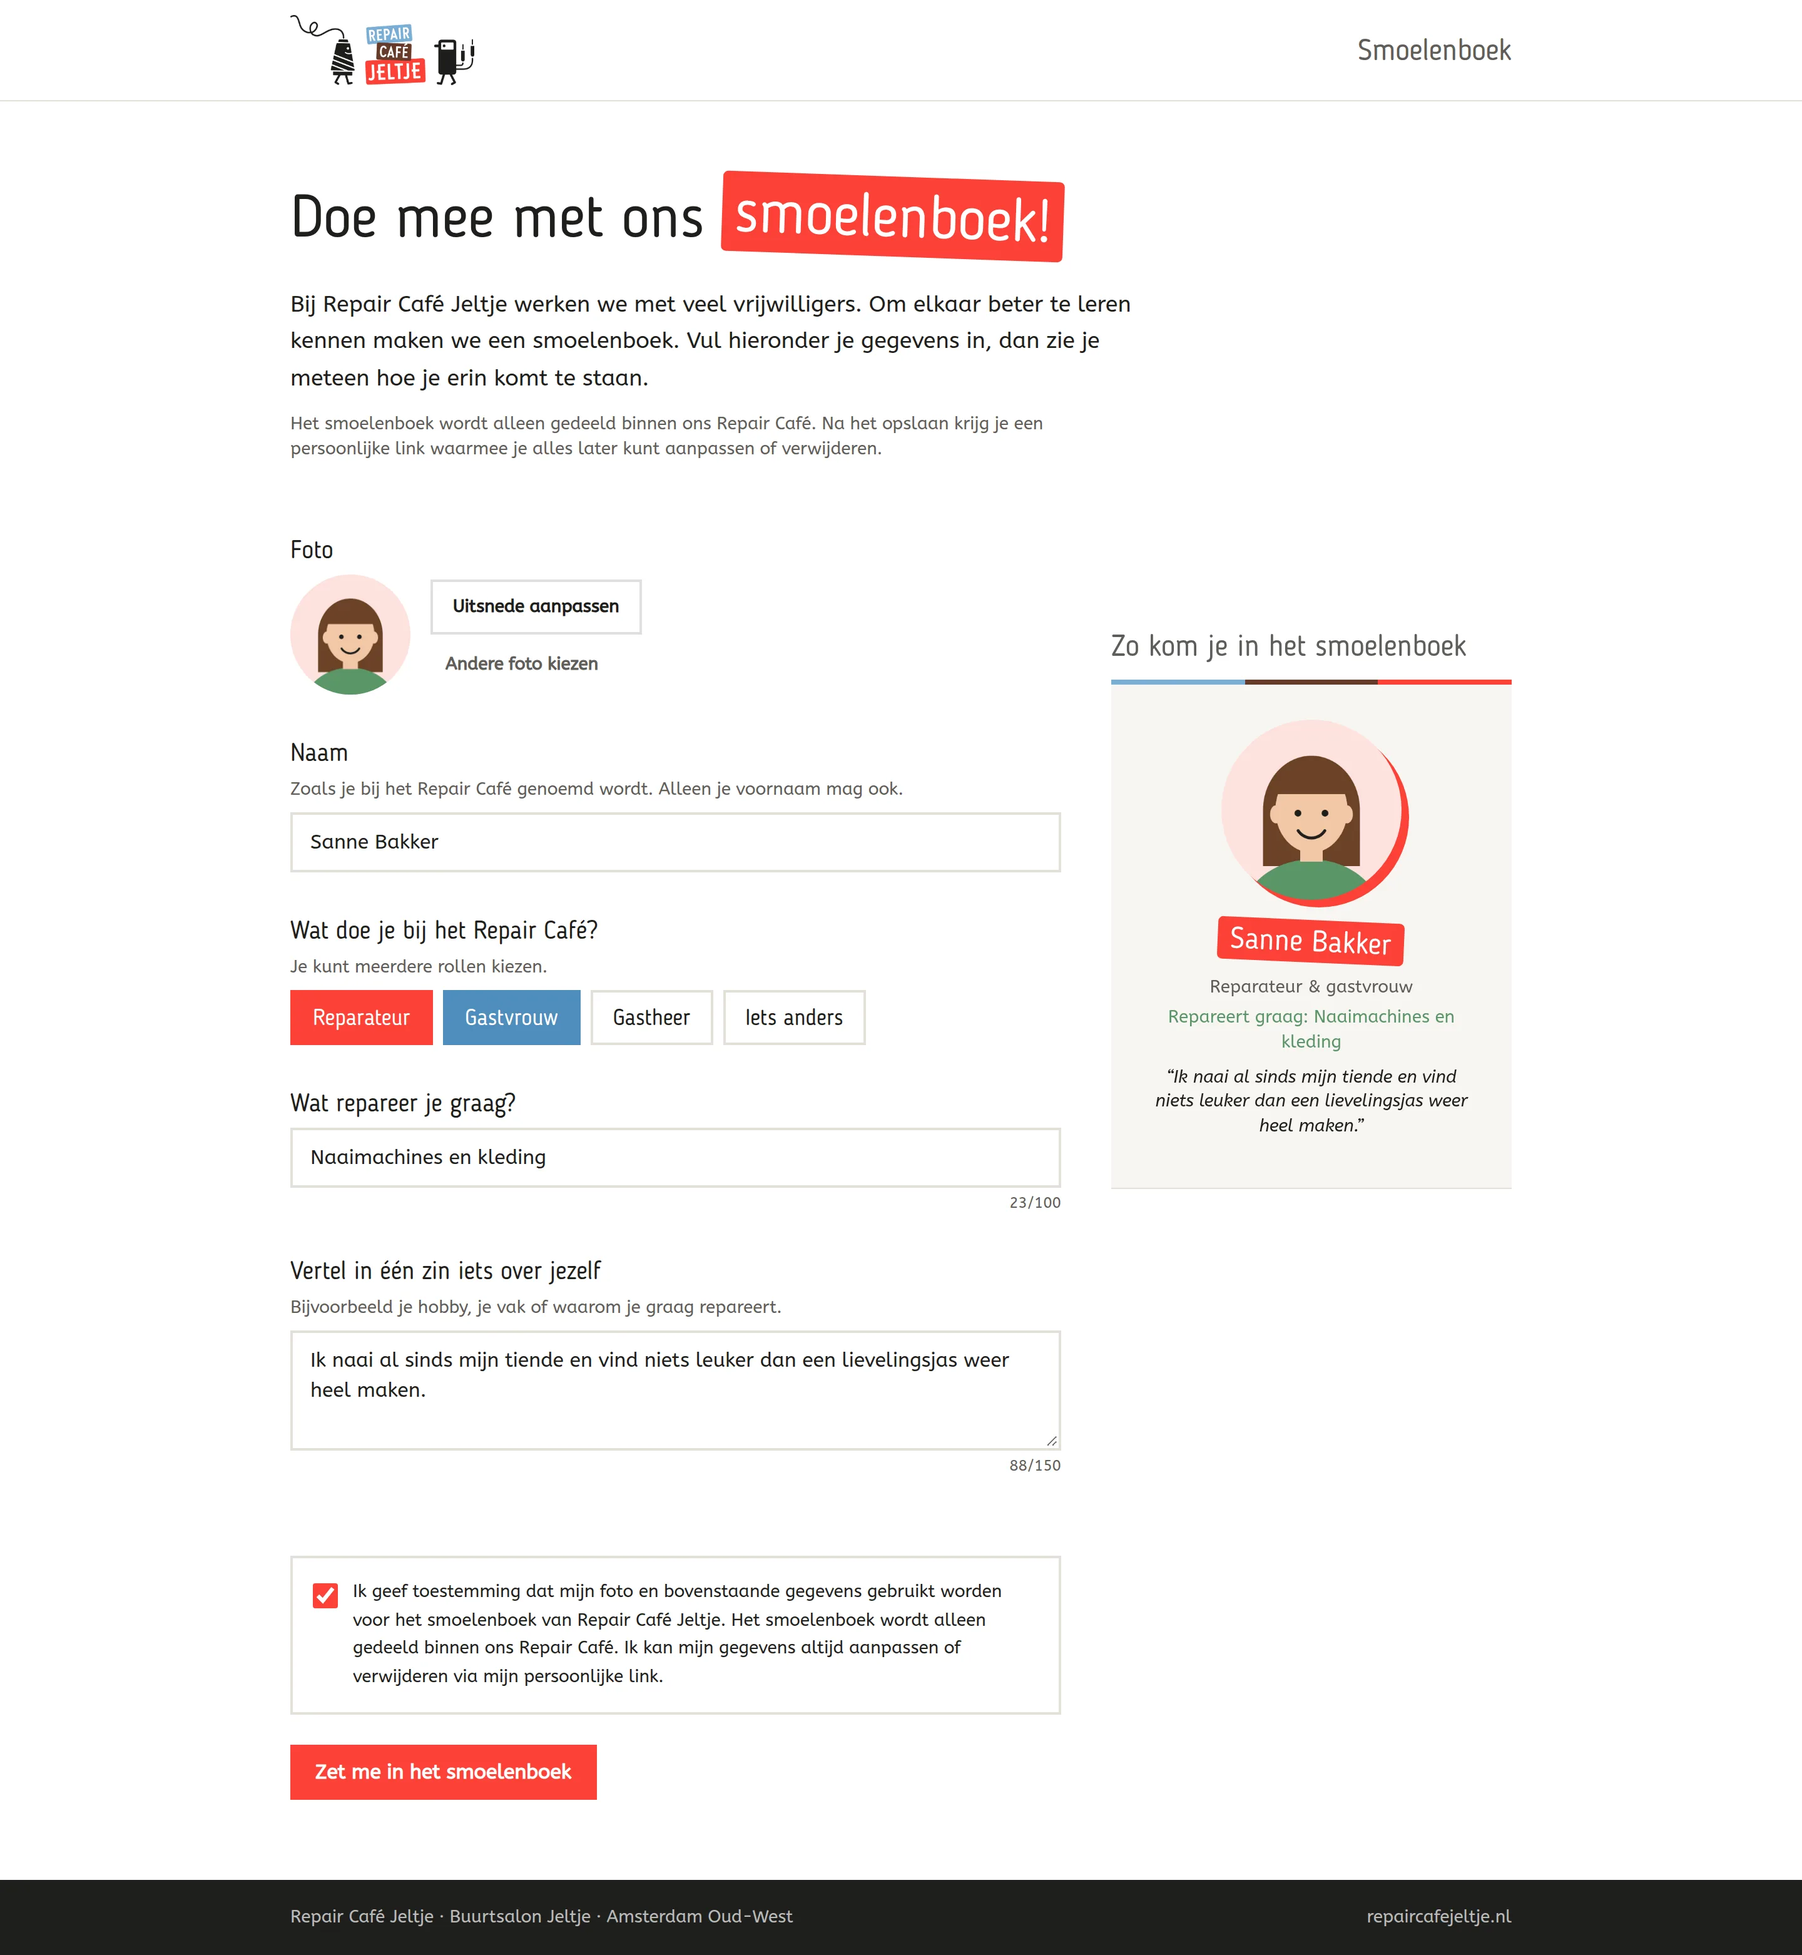
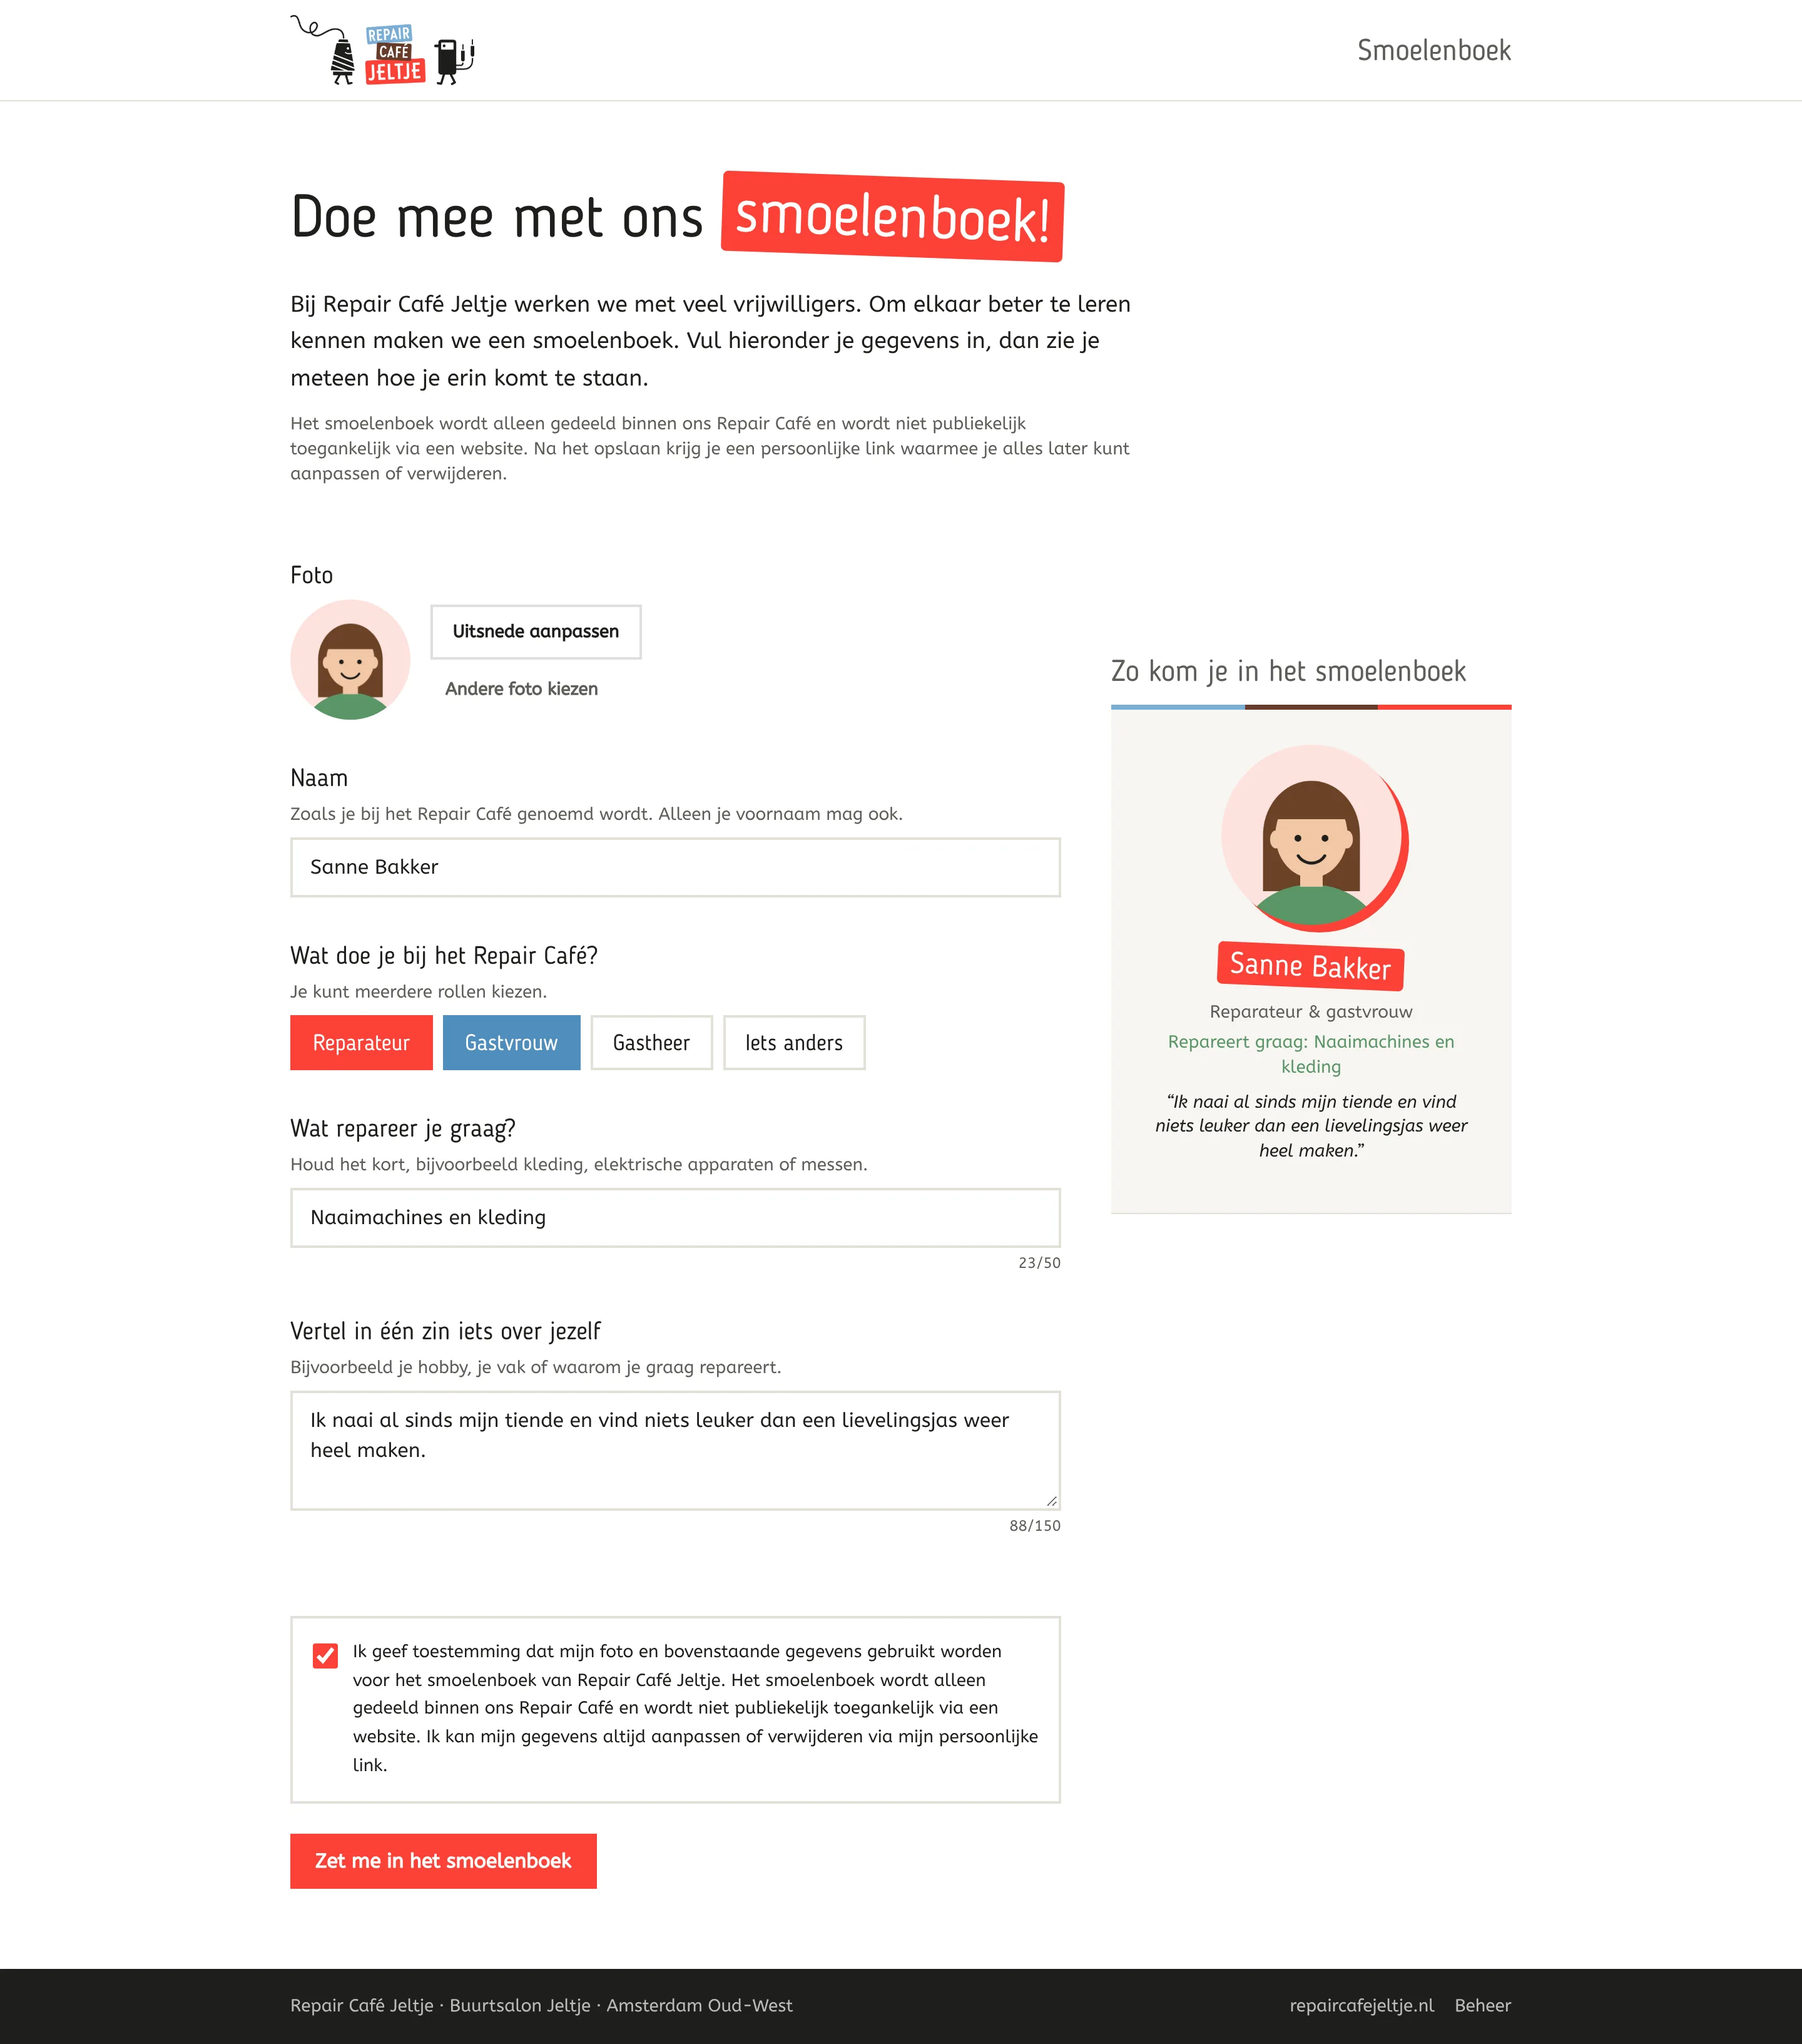
Stuur invulling van 'Wat repareer je graag?' met voorbeelden en max. 50 tekens
Claude-Session: https://claude.ai/code/session_01XV1NH5YPWpbAynznkfXjf2

diff --git a/app/components/PersonForm.vue b/app/components/PersonForm.vue
@@ -117,14 +117,20 @@ const roleClasses: Record<RoleColor, string> = {
 
       <section v-if="form.roles.includes('reparateur')">
         <label for="repairs" class="field-label">Wat repareer je graag?</label>
+        <p class="field-hint">
+          Houd het kort, bijvoorbeeld kleding, elektrische apparaten of messen.
+        </p>
         <input
           id="repairs"
           v-model="form.repairs"
           class="input"
-          placeholder="Bijv. naaimachines, lampen en kleine elektronica"
+          placeholder="Bijv. fietsen en naaimachines"
           :maxlength="LIMITS.repairs"
         />
-        <p class="mt-1 text-right text-xs text-muted">
+        <p
+          class="mt-1 text-right text-xs"
+          :class="length(form.repairs) >= LIMITS.repairs ? 'text-red-dark' : 'text-muted'"
+        >
           {{ length(form.repairs) }}/{{ LIMITS.repairs }}
         </p>
       </section>

diff --git a/shared/utils/person.ts b/shared/utils/person.ts
@@ -13,7 +13,7 @@ export type RoleColor = (typeof ROLES)[number]['color']
 export const LIMITS = {
   name: 60,
   roleOther: 40,
-  repairs: 100,
+  repairs: 50,
   about: 150,
 } as const
 
